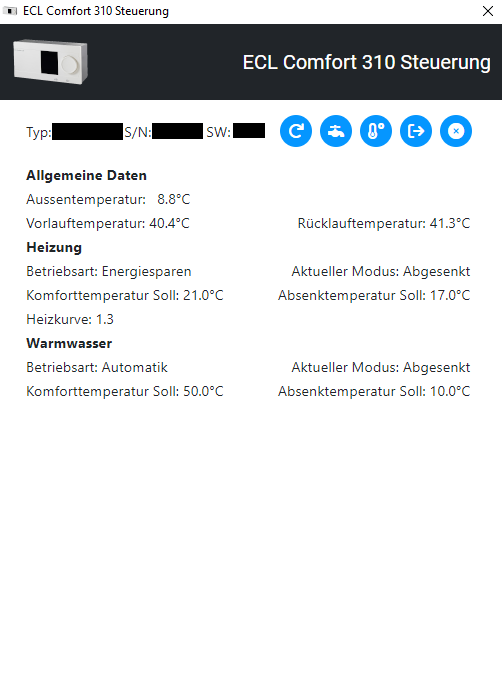
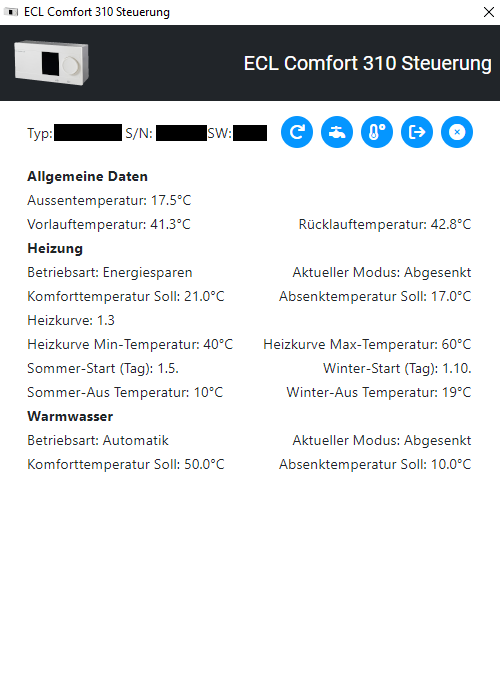
More settings and layout optimizations

diff --git a/app.html b/app.html
@@ -74,6 +74,18 @@
             <label class="form-label left" id="11174"></label>
         </div>
         <div class="center">
+            <label class="form-label left" id="11176"></label>
+            <label class="form-label right" id="11177"></label>
+        </div>
+        <div class="center">
+            <label class="form-label left" id="11392"></label>
+            <label class="form-label right" id="11396"></label>
+        </div>
+        <div class="center">
+            <label class="form-label left" id="11178"></label>
+            <label class="form-label right" id="11397"></label>
+        </div>
+        <div class="center">
             <label class="form-label"><b>Warmwasser</b></label>
         </div>
         <div class="center">
@@ -90,13 +102,13 @@
 <div class="container" id="heizung-container">
     <div class="content rel">
         <div class="center" id="main" style="margin: 15px auto !important">
-            <label class="form-label">Einstellungen Heizung</label>
+            <label class="form-label-header">Einstellungen Heizung</label>
             <button class="btn btn-sm" id="heizung-back" data-toggle="tooltip" data-placement="top" title="Zurück">
                 <i class="fa-solid fa-arrow-left"></i>
             </button>
         </div>
         <div class="center">
-            <label class="form-label" for="4200-set">Betriebsart</label>
+            <label class="form-label-header" for="4200-set">Betriebsart</label>
             <select class="form-select" aria-label="4200-set" id="4200-set">
                 <option value="0">Manuell</option>
                 <option value="1">Automatik</option>
@@ -106,31 +118,64 @@
             </select>
         </div>
         <div class="center">
-            <label class="form-label" for="11174-set">Heizkurve</label>
-            <select class="form-select" aria-label="11174-set" id="11174-set">
-                <option value="1">0.1</option>
-                <option value="2">0.2</option>
-                <option value="3">0.3</option>
-                <option value="4">0.4</option>
-                <option value="5">0.5</option>
-                <option value="6">0.6</option>
-                <option value="7">0.7</option>
-                <option value="8">0.8</option>
-                <option value="9">0.9</option>
-                <option value="10">1.0</option>
-                <option value="11">1.1</option>
-                <option value="12">1.2</option>
-                <option value="13">1.3</option>
-                <option value="14">1.4</option>
-                <option value="15">1.5</option>
-                <option value="16">1.6</option>
-                <option value="17">1.7</option>
-                <option value="18">1.8</option>
-                <option value="19">1.9</option>
-            </select>
+            <label class="form-label-header" for="sommer-set">Sommer-Einstellungen (für Automatikbetrieb)</label>
+            <table class="table table-sm">
+                <thead>
+                    <tr>
+                        <td>Start-Tag</td>
+                        <td>Start-Monat</td>
+                        <td>Aus-Temperatur</td>
+                    </tr>
+                </thead>
+                <tbody>
+                    <tr>
+                        <td id="so-day"></td>
+                        <td id="so-month"></td>
+                        <td id="so-temp"></td>
+                    </tr>
+                </tbody>
+            </table>
+        </div>
+        <div class="center">
+            <label class="form-label-header" for="winter-set">Winter-Einstellungen (für Automatikbetrieb)</label>
+            <table class="table table-sm">
+                <thead>
+                    <tr>
+                        <td>Start-Tag</td>
+                        <td>Start-Monat</td>
+                        <td>Aus-Temperatur</td>
+                    </tr>
+                </thead>
+                <tbody>
+                    <tr>
+                        <td id="wi-day"></td>
+                        <td id="wi-month"></td>
+                        <td id="wi-temp"></td>
+                    </tr>
+                </tbody>
+            </table>
+        </div>
+        <div class="center">
+            <label class="form-label-header" for="11174-set">Einstellungen Heizkurve</label>
+            <table class="table table-sm">
+                <thead>
+                    <tr>
+                        <td>Heizkurve</td>
+                        <td>Min-Temperatur</td>
+                        <td>Max-Temperatur</td>
+                    </tr>
+                </thead>
+                <tbody>
+                    <tr>
+                        <td id="heizkurve"></td>
+                        <td id="heizkurve-min"></td>
+                        <td id="heizkurve-max"></td>
+                    </tr>
+                </tbody>
+            </table>
         </div>
         <div class="center" id="hz-programm">
-            <label class="form-label" for="hz-tab">Wochenprogramm Komforteinstellung (für Automatikbetrieb)</label>
+            <label class="form-label-header" for="hz-tab">Wochenprogramm Komforteinstellung (für Automatikbetrieb)</label>
         </div>
     </div>
 </div>
@@ -138,13 +183,13 @@
 <div class="container" id="warmwasser-container">
     <div class="content rel">
         <div class="center" id="main" style="margin: 15px auto !important">
-            <label class="form-label">Einstellungen Warmwasser</label>
+            <label class="form-label-header">Einstellungen Warmwasser</label>
             <button class="btn btn-sm" id="warmwasser-back" data-toggle="tooltip" data-placement="top" title="Zurück">
                 <i class="fa-solid fa-arrow-left"></i>
             </button>
         </div>
         <div class="center">
-            <label class="form-label" for="4201-set">Betriebsart</label>
+            <label class="form-label-header" for="4201-set">Betriebsart</label>
             <select class="form-select" aria-label="4201-set" id="4201-set">
                 <option value="0">Manuell</option>
                 <option value="1">Automatik</option>
@@ -154,10 +199,10 @@
             </select>
         </div>
         <div class="center" id="ww-programm">
-            <label class="form-label" for="ww-tab">Wochenprogramm Komforteinstellung (für Automatikbetrieb)</label>
+            <label class="form-label-header" for="ww-tab">Wochenprogramm Komforteinstellung (für Automatikbetrieb)</label>
         </div>
         <div class="center" id="pu-programm">
-            <label class="form-label" for="pu-tab">Wochenprogramm Zirkulationspumpe</label>
+            <label class="form-label-header" for="pu-tab">Wochenprogramm Zirkulationspumpe</label>
         </div>
     </div>
 </div>

diff --git a/app.js b/app.js
@@ -4,6 +4,8 @@ $( document ).ready(function() {
     $('#heizung-container').hide();
     $('#warmwasser-container').hide();
     createSchedule();
+    createOffDates();
+    createHeatCurve();
 });
 
 let lastDialledNumbers = [];
@@ -51,9 +53,6 @@ $('#4200-set').change(() => {
 });
 $('#4201-set').change(() => {
     window.electronAPI.send('action', { action: 'set', id: 4201, value: parseInt($('#4201-set').val()) });
-});
-$('#11174-set').change(() => {
-    window.electronAPI.send('action', { action: 'set', id: 11174, value: parseInt($('#11174-set').val()) });
 });
 
 $('#settings-container input').on('change', (event) => {
@@ -161,9 +160,9 @@ function createSchedule() {
         let data = `<div class="tab-content" id="${prog}-data">`
         Object.keys(ids[prog]).forEach((day, index) => {
             data += `<div class="tab-pane fade${index === 0 ? ' show active' : ''}" id="${prog}-data-${day.toLowerCase()}" role="tabpanel" aria-labelledby="${prog}-tab-${day.toLowerCase()}">`;
-            data += '<table class="table table-sm"><thead><tr><th scope="col">Zeitraum</th><th scope="col">Start</th><th scope="col">Ende</th></tr></thead><tbody>';
+            data += '<table class="table table-sm"><thead><tr><td>Zeitraum</td><td>Start</td><td>Ende</td></tr></thead><tbody>';
             Object.keys(ids[prog][day]).forEach(time => {
-                data += `<tr><th scope="row">${time}</th>`;
+                data += `<tr><td>${time}</td>`;
                 ids[prog][day][time].forEach(id => {
                     data += `<td><select class="form-select" aria-label="${id}-set" id="${id}-set">`;
                     Object.keys(options).forEach(option => {
@@ -188,6 +187,78 @@ function createSchedule() {
             });
         });
     })
+}
+
+function createOffDates() {
+    const programs = ['so', 'wi'];
+    const days = [ '1', '2', '3', '4', '5', '6', '7', '8', '9', '10', '11', '12', '13', '14', '15', '16', '17', '18', '19', '20', '21', '22', '23', '24', '25', '26', '27', '28', '29', '30', '31' ];
+    const months = ['1', '2', '3', '4', '5', '6', '7', '8', '9', '10', '11', '12'];
+    const temps = [ '1', '2', '3', '4', '5', '6', '7', '8', '9', '10', '11', '12', '13', '14', '15', '16', '17', '18', '19', '20', '21', '22', '23', '24', '25', '26', '27', '28', '29', '30' ];
+    const ids = {
+        so: {
+            day: 11392,
+            month: 11391,
+            temp: 11178
+        },
+        wi: {
+            day: 11396,
+            month: 11395,
+            temp: 11397
+        }
+    }
+    programs.forEach(prog => {
+        let daysData = `<select class="form-select" aria-label="${ids[prog].day}-set" id="${ids[prog].day}-set">`;
+        days.forEach(day => {
+            daysData += `<option value="${day}">${day}</option>`;
+        });
+        daysData += `</select>`;
+        $(`#${prog}-day`).append(daysData);
+        let monthData = `<select class="form-select" aria-label="${ids[prog].month}-set" id="${ids[prog].month}-set">`;
+        months.forEach(month => {
+            monthData += `<option value="${month}">${month}</option>`;
+        });
+        monthData += `</select>`;
+        $(`#${prog}-month`).append(monthData);
+        let tempData = `<select class="form-select" aria-label="${ids[prog].temp}-set" id="${ids[prog].temp}-set">`;
+        temps.forEach(temp => {
+            tempData += `<option value="${temp}">${temp}°C</option>`;
+        });
+        tempData += `</select>`;
+        $(`#${prog}-temp`).append(tempData);
+    });
+    const idsForChangeEvent = [ '11392', '11391', '11178', '11396', '11395', '11397' ];
+    idsForChangeEvent.forEach(id => {
+        $(`#${id}-set`).change(() => {
+            window.electronAPI.send('action', { action: 'set', id, value: parseInt($(`#${id}-set`).val()) });
+        });
+    });
+}
+
+function createHeatCurve() {
+    let heizKurveData = '<select class="form-select" aria-label="11174-set" id="11174-set">';
+    for (let i = 1; i <= 40; i++) {
+        heizKurveData += `<option value="${i}">${(i * 0.1).toFixed(1)}</option>`;
+    }
+    heizKurveData += '</select>';
+    $('#heizkurve').append(heizKurveData);
+    const tempLoEnd = 10;
+    const tempHiEnd = 70;
+    let loTempData = '<select class="form-select" aria-label="11176-set" id="11176-set">';
+    let hiTempData = '<select class="form-select" aria-label="11177-set" id="11177-set">';
+    for (let j = tempLoEnd; j <= tempHiEnd; j++) {
+        loTempData += `<option value="${j}">${j}°C</option>`;
+        hiTempData += `<option value="${j}">${j}°C</option>`;
+    }
+    loTempData += '</select>';
+    hiTempData += '</select>';
+    $('#heizkurve-min').append(loTempData);
+    $('#heizkurve-max').append(hiTempData);
+    const idsForChangeEvent = [ '11174', '11176', '11177' ];
+    idsForChangeEvent.forEach(id => {
+        $(`#${id}-set`).change(() => {
+            window.electronAPI.send('action', { action: 'set', id, value: parseInt($(`#${id}-set`).val()) });
+        });
+    });
 }
 
 function action(actionType, callID) {

diff --git a/main.js b/main.js
@@ -48,7 +48,7 @@ function createWindow () {
     globals.win = new BrowserWindow({
         Titel: 'ECL Comfort 310 Steuerung',
         width: 510,
-        height: 700,
+        height: 710,
         icon: nativeImage.createFromPath(join(__dirname, 'images/icon.png')),
         resizable: false,
         minimizable: false,
@@ -270,8 +270,14 @@ const items = Object.freeze([
     { number: 10202, length: 0, label: "Vorlauftemperatur: ", method: readTemp4 },
     { number: 10204, length: 0, label: "Rücklauftemperatur: ", method: readTemp4 },
     { number: 11174, length: 0, label: "Heizkurve: ", method: readKurve },
+    { number: 11176, length: 0, label: "Heizkurve Min-Temperatur: ", method: readTemp },
+    { number: 11177, length: 0, label: "Heizkurve Max-Temperatur: ", method: readTemp },
+    { number: 11178, length: 0, label: "Sommer-Aus Temperatur: ", method: readTemp },
     { number: 11179, length: 0, label: "Komforttemperatur Soll: ", method: readTemp3 },
     { number: 11180, length: 0, label: "Absenktemperatur Soll: ", method: readTemp3 },
+    { number: 11392, length: 0, label: "Sommer-Start (Tag): ", method: readSummerStart },
+    { number: 11396, length: 0, label: "Winter-Start (Tag): ", method: readWinterStart },
+    { number: 11397, length: 0, label: "Winter-Aus Temperatur: ", method: readTemp },
     { number: 12189, length: 0, label: "Komforttemperatur Soll: ", method: readTemp3 },
     { number: 12190, length: 0, label: "Absenktemperatur Soll: ", method: readTemp3 },
 ])
@@ -430,6 +436,12 @@ async function readKurve(id) {
     return `${(val / 10).toFixed(1)}`;
 }
 
+async function readTemp(id) {
+    const temp = await readValue(id);
+    globals.win.webContents.send('settings', { key: id, value: temp });
+    return `${temp}°C`;
+}
+
 async function readTemp3(id) {
     const temp = await readValue(id);
     return `${(temp / 10).toFixed(1)}°C`;
@@ -463,6 +475,22 @@ async function readBetriebsart(id) {
         default:
             return 'Unbekannt'
     }
+}
+
+async function readSummerStart() {
+    const summerStartDay = await readValue(11392);
+    const summerStartMon = await readValue(11391);
+    globals.win.webContents.send('settings', { key: 11392, value: summerStartDay });
+    globals.win.webContents.send('settings', { key: 11391, value: summerStartMon });
+    return `${summerStartDay}.${summerStartMon}.`;
+}
+
+async function readWinterStart() {
+    const winterStartDay = await readValue(11396);
+    const winterStartMon = await readValue(11395);
+    globals.win.webContents.send('settings', { key: 11396, value: winterStartDay });
+    globals.win.webContents.send('settings', { key: 11395, value: winterStartMon });
+    return `${winterStartDay}.${winterStartMon}.`;
 }
 
 async function readModus() {

diff --git a/app.css b/app.css
@@ -20,8 +20,11 @@ button#saveip { margin: 0px !important; width: 10%; border-bottom-right-radius: 
 .content input[id^='remote-'] { width: 100%; resize: none; padding: 5px; border: 0px; text-align: center; font-size: 0.9rem; }
 @keyframes blink { 50% { border-color: #eaeaea; } }
 .form-label { margin: 0px !important; font-size: 0.9rem !important; }
+.form-label-header { margin: 0px !important; font-size: 0.9rem !important; font-weight: 700; }
 .left { width: 220px; text-align: left }
 .right { width: 220px; text-align: right }
 .held-call { border-bottom: 1px #ffc107 solid !important; animation: blink 1s; animation-iteration-count: 100; }
 .hold-call { border-bottom: 1px #ffc107 solid !important; }
 .nav-link { padding: 3px !important }
+.table { margin-bottom: 0px !important; }
+.form-select { line-height: 17px !important; }

diff --git a/README.md b/README.md
@@ -3,9 +3,10 @@
 Ein Programm für die wichtigsten Einstellungen des ECL Komfort 310.
 
 * Betriebsart Warmwasser und Heizung
-* Heizkurve
+* Heizkurve mit minimal- und maximal-Temperatur
+* Sommer- und Winter-Start bzw. Aus-Temperatur Einstellungen
 * Wochenprogramme für Warmwasser und Heizung
-* Wochenprogramm der Zirkulationspumpe
+* Wochenprogramm der Warmwasser-Zirkulationspumpe
 
 <p float="left">
 <img src="https://raw.githubusercontent.com/mailsvb/ecl310/main/images/readme01.png" width="250">
